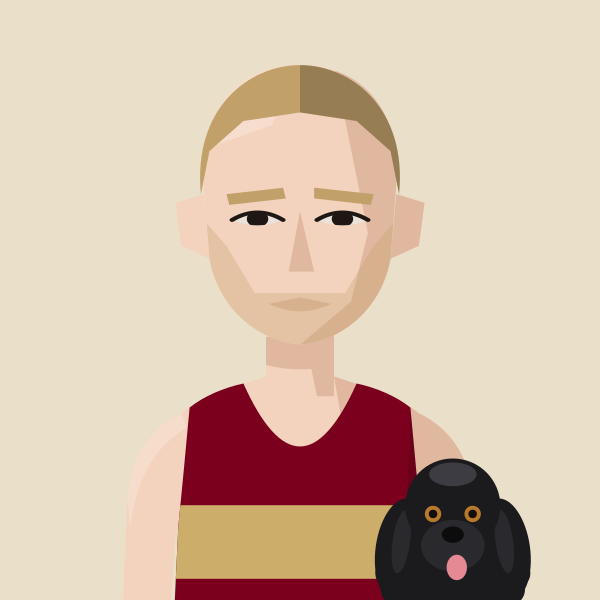
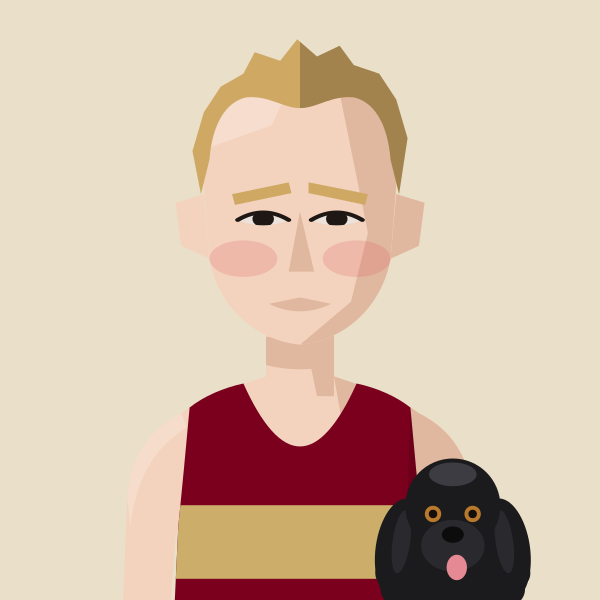
Redraw James Hancock: tufty receding blond hair, round jaw, closer eyes, warm brows (new brow-tilt option)
Claude-Session: https://claude.ai/code/session_01MgmDWhFqnSSnP4iBLKXUZC

Changed region(s): [[0.33, 0.3, 0.63, 0.57], [0.3, 0.06, 0.69, 0.3]]

diff --git a/files/index.html b/files/index.html
@@ -686,7 +686,7 @@ return m;})();
 const portraitFile=(name,club)=>{const k=normalizeNameForCompare(name||'').replace(/\s*\(([^)]*)\)$/,(m,c)=>CLUBS[c.toUpperCase()]?'':m);const a=PORTRAITS[k];if(a&&a.club===club)return a.file;const b=PORTRAITS[k+'@'+club];return b?b.file:null;};
 // Athlete header figure: superstar portrait if we have one, else a grey runner in the club vest, else the plain vest icon
 // Changes whenever any portrait changes (set by tools/build_og.py), so browsers fetch fresh images instead of old cached ones
-const PORTRAIT_V='f5fa012c';const PORTRAIT_WOMEN='abbey-brooke,abbie-bulbulian,adele-prince,aimee-hargreaves,aisling-ahern,alex-brown,alex-gandee,alex-marginean,alex-miller,alexa-parker,alexandra-barbour,alice-braham,alice-bridger-morales,alice-crane,alice-martin,alice-reed,alice-smith,alison-purnell,alison-thomson,amy-clements,andrea-barber,anika-schwarze-chintapatla,anna-garnier,anna-garnier-hw,anna-sharp,annabel-hobday,annabelle-hadlow,anne-hegvold,annmarie-seymour,ava-mcandie,becky-briggs,bethan-goddard,bethanie-murray,bethany-brown,betsy-griffiths,billie-mcclosky,camilla-barden,caoimhe-nic-fhogartaigh,carolyne-baxter,catherine-bryson,catherine-eastham,catherine-kandie,cathy-ansell,charlotte-griffiths,chloe-beckett,chloe-tighe,chrissie-wellington,claire-grima,clara-pettit,clare-elms,clare-pauzers,dillan-quinn,dorchie-cockerell,eilidh-hide,elinor-skinner,eliza-grant,elizabeth-apsley,elizabeth-stavreski,ella-fennelly,ella-king-powrie,ella-may-hards,ella-newton,ellie-brown,ellie-freeden,eloise-bull,emilie-arnoux,emily-barrett,emily-bradley,emily-lowery,emily-robbins,emma-gordon,emma-howsham,emma-lord,emma-rowland,estle-viljoen,evie-warren,felicity-cole,felicity-harrison,felicity-hayward,fi-maddocks,fiona-de-mauny,florence-wiggins,gabby-collison,gabriel-reynolds,gemma-newport,genevieve-blanch,georgia-curry,georgie-bruinvels,georgie-fenn,georgie-furze,georgie-grgec,gina-galbraith,grace-leyland,grace-richardson,hannah-edwards,hannah-english,heather-statham,heather-statham-cc,helena-corbin,helena-keenan,holly-nixon,holly-pan,imogen-mackie,imogen-wolsey,iona-cousland,isabel-bradley,isabel-brinsden,isabelle-pickett,isobel-hodder,jennifer-nandi,jennifer-smith,jess-reed,jess-saunders,jess-winfield,jessica-davies,jessica-lowe,jodie-favell,josephine-rhodes,julia-bleasdale,julia-wedmore,juliet-hodder,jurgita-levertaviciute,justine-lynch,karen-fenner,karen-xiang,karina-box,kate-axford,kate-williams,kathy-sharpe,katie-ellen-french,katie-good,katie-snowden,katy-hedgethorne,kitty-shepherd-cross,kristina-popadich,lara-bromilow,lara-mangan,laura-goodson,laura-miles,lauren-major,lea-adamson,lily-newton,lisa-bailey,lisa-thomas,lisa-thomas-hw,lizzie-goldie-scot,louise-cooper,lucy-jones,lucy-macalister,lucy-peters,lydia-blackmore,lydia-gallyer-barnett,maddie-mastrolonardo,maddy-whitman,maeve-kenny,margaret-coogan,martina-conner,mary-james,mary-setyabule,matilde-lomba,megan-gildea,mhairi-hall,mimi-corden-lloyd,molly-oconnor,molly-smith,monika-gajek,naomi-lenane,natalie-beadle,natalie-seymour,natasha-lodge,niamh-thompson,nicky-hayes,nicola-cartlidge,nicola-douglas,nikki-sturzaker,olivia-papaioannou,olivia-stillman,orna-mcginley,pamela-mchutchon,patricia-walker,patrizia-gnoato,penny-oliver,rachel-brown,rebecca-barrow,rebekah-edgar,ruby-carter,ruby-whyte-wilding,ruby-woolfe,sally-urquhart,sam-whiting,samantha-munday,sarah-astin,sarah-dewhirst,sarah-grover,sarah-hanley,sarah-holt,sarah-murphy,sarah-palmer,sarah-palmer-ran,sarah-riceman,sarah-young,saron-haileselase,serena-carter,sophie-cowper,sophie-harris,sophie-hicks,sophie-tooley,stacey-ward,steph-hewitt,steph-mccall,steph-mccall-cc,steph-mccall-slh,steph-mitchell,suzanne-swaine,suze-spalding,suzie-harvey,suzy-whatmough,teresa-murphy,tilly-heaton,tilly-heaton-bel,vic-cartwright,vicky-clarke,victoria-barthelmess,victoria-buck,vikki-filsell,zoe-macdonald,zuzana-nemeckova';const PORTRAIT_MEN='aaron-wilson,abdulla-elsadig,adam-leane,adrian-major,adrien-royer,alan-black,alan-mead,alex-brecker,alex-bruce-littlewood,alex-gutteridge,alex-harris,alex-howard,alex-janiaud,alex-lee,alex-lennon,alex-mills,alex-milne,alex-morales,alex-robinson,alex-yee,alexander-marks,amittai-ben-israel,andrew-cumine,andrew-green,andrew-penney,andrew-perfect,andrew-simms,andrew-warburton,andrius-jaksevicius,andy-coley-maud,andy-coley-maud-cc,andy-fyfe,andy-north,andy-paton,andy-weir,angus-butler,angus-lamb,anisse-ismaili,arlo-ludewick,arne-dumez,arthur-peel,ashley-goncalves,barnaby-day,barry-collins,barry-sawyer,ben-clarke,ben-harding,ben-hurley,ben-ireland,ben-millar,ben-paviour,ben-pearce,ben-racle,ben-revill,ben-reynolds,ben-scott,ben-toomer,benedict-whitby,benjamin-hilson,bernie-ford,bill-kerr,bill-weller,bill-weller-wal,bob-harrison,bob-holt,bob-lunnon,bob-rayman,bob-smith,bradley-courtney-pinn,brandon-dewar,brian-gorman,brian-wilder,caleb-hathaway,callum-stewart,cameron-dockerill,cameron-reilly,carl-delaney,charles-herrington,charlie-dabbs,charlie-dickinson,charlie-eastaugh,charlie-manning,charlie-pickett,charlie-rogers,charlie-sandison,charlie-walker,charlie-wyllie,che-compton,chris-busaileh,chris-busaileh-hhh,chris-greenwood,chris-keavey,chris-moss,chris-steer,chris-threadgold,chris-warren,christian-lee,christopher-parker,clive-gilby,clive-shippen,colin-high,colin-pearson,conall-mcnally,conall-whelan,craig-ruddy,dame-dibaba,dan-cliffe,dan-pettitt,daniel-shaw,daniel-wolff,dave-beard,dave-beaver,dave-glassborow,dave-holt,dave-taylor,david-anderson,david-bowers,david-grima,david-north,david-ogden,david-symons,david-walsh,david-williams,deron-fagan,dick-piotrowski,dimos-evangelidis,dominic-kiralyfi,don-anderson,don-faircloth,don-maclean,doug-maughan,duncan-rimmer,dylan-evans,dylan-mitchard,ed-brewer,ed-catmur,ed-gibson,ed-mallett,eddie-herridge,eddie-jodrell,eddie-rolls,edward-chuck,eoin-brady,eoin-molloy,ethan-mccolgan,falilou-kebe,findlay-dyer,finn-johnson,fintan-pearce,frank-tickner,frank-ward,fred-paget,fred-slemeck,freddie-hessian,garret-lee,gary-ribbons,gary-ribbons-ee,gary-staines,gavin-eccles,geoff-biscoe,geoff-jerwood,geoff-north,george-cotton,george-gathercole,george-jackson,george-loxton,george-mallett,george-ogden,gerry-adams,gerry-north,glen-keegan,gordon-pearce,graham-macky,harrison-hayman,harry-guttridge,hector-revill,henry-hart,henry-silverstein,hugo-hewitt,ian-acreman,ian-crowe-wright,ian-ellwood,ian-harkness,indy-barnes,isaac-lutaya,isaac-parker,jack-brotchie,jack-dickson,jack-dormer,jack-hampshire,jack-harrison,jack-hobden,jack-kavanagh,jack-millar,jack-ramm,jack-woods,jacob-brockmann,jake-simmonds,james-bartram,james-blackwood,james-bowler,james-estall,james-ewing,james-fox,james-hancock,james-harvey,james-hoad,james-kelly,james-mcmullan,james-murray,james-nutt,james-preston,james-roberts,james-stockings,james-ward,james-wootton,jamie-crowe,jamie-parkinson,jared-martin,jean-paul-wright,jeff-cunningham,jeremy-dempsey,jermaine-mays,jerry-watson,jim-allchin,jim-rimmer,joe-english,joe-hartley,john-baker,john-bicourt,john-bromley,john-davies,john-dear,john-foss,john-foxall,john-gilbert,john-gladwin,john-hutchins,john-kendall,john-kimaiyo,john-lee,john-lethbridge,john-mather,john-moore,john-roberts,john-sanderson,john-stow,john-sullivan,john-thresher,jon-hobbs,jon-pepper,jon-pepper-slh,jon-phillips,jon-solly,jonathan-cocker,jonathan-collier,jonathan-cornish,jonathan-ratcliffe,jonathan-tipper,jonathon-blackledge,jonny-neville,jonny-scott,jordan-weaver,josh-mitchell,josh-snow,josh-trigwell,jules-gevers,junior-galley,justin-chaston,justin-reid,kassa-tadesse,keith-newton,kevin-nash,kevin-quinn,kevin-sturman,kieran-barnes,kieran-white,knut-hegvold,knut-hegvold-bel,larry-ryan,lawrence-avery,lee-lintern,lewis-lloyd,liam-burthem,lionel-mann,lloyd-kempson,luke-caldwell,mack-downie,malachi-byansi,marcello-bizio,marcelo-fortes,marco-mazzotta,mark-anderson,mark-miles,mark-sinclair,mark-tennyson,mark-waller,martin-dent,martin-lake,martin-lewington,martin-shore,mathew-speed,matt-chaston,matt-jones,matt-wood,matthew-edgar,matthew-houchell,matthew-thomas,matthew-varley,max-bloor,max-heyden,max-milarvie,max-nicholls,michael-baker,michael-mccarthy,mick-woods,mike-beevor,mike-boyle,mike-cummings,mike-farmery,mike-fuller,mike-hayes,mike-kortenray,mike-nouch,mohammed-ismail,monty-hudson,morgan-roberts,nathan-visick,neil-chisholm,neil-phillips,neil-speaight,neil-wilson,nic-lukies,nick-acfield,nick-altmann,nick-bester,nick-bester-hhh,nick-buckle,nick-bundle,nick-goolab,nick-lightfoot,nick-morris,nick-torry,noah-fernandez,norman-stairs,oli-carrington,oliver-carrington,oliver-fox,oliver-reynolds,oliver-young,ollie-foote,ollie-garrod,olly-buck,owen-hind,paddy-roddy,pancho-panchev,paskar-owor,pat-newell,patrick-mcdougall,paul-calver,paul-cheetham,paul-freary,paul-magner,paul-pollock,pete-carton,pete-gardner,peter-clarke,peter-giles,peter-giles-thh,peter-lighting,phil-carstairs,phil-sanders,phil-sesemann,phil-swinburn,phil-wicks,phil-woodford-smith,raj-paranandi,ralph-street,ranjit-bhatia,ray-foley,reece-edwards,rhys-boorman,rian-mccawley,richard-ashe,richard-giles,richard-henderson,richard-langley,richard-mcdowell,richard-ollington,richard-partridge,richard-sun,richard-ward,rob-armstrong,rob-kelly,rob-tuer,robert-elphick,robert-laing,robert-norville,robert-peacock,robert-sesemann,robin-boon,robin-hudson,roger-alsop,roger-alsop-bel,ron-clark,ron-linstead,ronan-tanguy,rory-mcmahon,rory-orsborn,ross-christie,rowan-board,rowan-crichton,russell-dessaix-chin,ryan-hickey,ryan-mccallister,sam-bramwell,sam-charlton,sam-gebreselassie,sam-peters,sam-sommerville,sam-tyas,samuel-dames,samuel-wilcock,sean-cordon,sebastian-anthony,simon-baines,simon-coombes,simon-coppard,simon-holmes,simon-rayner,simon-rayner-hw,simon-wade,simon-wade-hhh,simon-waterhouse,simon-williams,simon-wurr,sonny-nicoll,spencer-barden,stephen-mcleod,stephen-sharp,steve-gardner,steve-jones,steve-smythe,steve-smythe-hhh,stuart-beaney,stuart-major,stuart-major-thh,stuart-mccallum,stuart-paton,terry-booth,thomas-dugre,thomas-gandee,thomas-gardner,thomas-renshaw,tim-alexander,tim-eglen,tim-lawrence,tim-watson,toby-cooke,toby-fletcher,tom-austin,tom-cheetham,tom-conlon,tom-davies,tom-gifford,tom-jervis,tom-lole,tom-south,tom-thornley,tommy-taylor,tony-binda,tony-fairclough,tony-harran,trevor-hart,valdis-pauzers,valentin-rigori,vic-maughan,will-cockerell,will-lewis,will-marshall,will-scott,will-stockley,william-gardner,yacin-yusuf,zach-nolan';
+const PORTRAIT_V='b5fc6f4c';const PORTRAIT_WOMEN='abbey-brooke,abbie-bulbulian,adele-prince,aimee-hargreaves,aisling-ahern,alex-brown,alex-gandee,alex-marginean,alex-miller,alexa-parker,alexandra-barbour,alice-braham,alice-bridger-morales,alice-crane,alice-martin,alice-reed,alice-smith,alison-purnell,alison-thomson,amy-clements,andrea-barber,anika-schwarze-chintapatla,anna-garnier,anna-garnier-hw,anna-sharp,annabel-hobday,annabelle-hadlow,anne-hegvold,annmarie-seymour,ava-mcandie,becky-briggs,bethan-goddard,bethanie-murray,bethany-brown,betsy-griffiths,billie-mcclosky,camilla-barden,caoimhe-nic-fhogartaigh,carolyne-baxter,catherine-bryson,catherine-eastham,catherine-kandie,cathy-ansell,charlotte-griffiths,chloe-beckett,chloe-tighe,chrissie-wellington,claire-grima,clara-pettit,clare-elms,clare-pauzers,dillan-quinn,dorchie-cockerell,eilidh-hide,elinor-skinner,eliza-grant,elizabeth-apsley,elizabeth-stavreski,ella-fennelly,ella-king-powrie,ella-may-hards,ella-newton,ellie-brown,ellie-freeden,eloise-bull,emilie-arnoux,emily-barrett,emily-bradley,emily-lowery,emily-robbins,emma-gordon,emma-howsham,emma-lord,emma-rowland,estle-viljoen,evie-warren,felicity-cole,felicity-harrison,felicity-hayward,fi-maddocks,fiona-de-mauny,florence-wiggins,gabby-collison,gabriel-reynolds,gemma-newport,genevieve-blanch,georgia-curry,georgie-bruinvels,georgie-fenn,georgie-furze,georgie-grgec,gina-galbraith,grace-leyland,grace-richardson,hannah-edwards,hannah-english,heather-statham,heather-statham-cc,helena-corbin,helena-keenan,holly-nixon,holly-pan,imogen-mackie,imogen-wolsey,iona-cousland,isabel-bradley,isabel-brinsden,isabelle-pickett,isobel-hodder,jennifer-nandi,jennifer-smith,jess-reed,jess-saunders,jess-winfield,jessica-davies,jessica-lowe,jodie-favell,josephine-rhodes,julia-bleasdale,julia-wedmore,juliet-hodder,jurgita-levertaviciute,justine-lynch,karen-fenner,karen-xiang,karina-box,kate-axford,kate-williams,kathy-sharpe,katie-ellen-french,katie-good,katie-snowden,katy-hedgethorne,kitty-shepherd-cross,kristina-popadich,lara-bromilow,lara-mangan,laura-goodson,laura-miles,lauren-major,lea-adamson,lily-newton,lisa-bailey,lisa-thomas,lisa-thomas-hw,lizzie-goldie-scot,louise-cooper,lucy-jones,lucy-macalister,lucy-peters,lydia-blackmore,lydia-gallyer-barnett,maddie-mastrolonardo,maddy-whitman,maeve-kenny,margaret-coogan,martina-conner,mary-james,mary-setyabule,matilde-lomba,megan-gildea,mhairi-hall,mimi-corden-lloyd,molly-oconnor,molly-smith,monika-gajek,naomi-lenane,natalie-beadle,natalie-seymour,natasha-lodge,niamh-thompson,nicky-hayes,nicola-cartlidge,nicola-douglas,nikki-sturzaker,olivia-papaioannou,olivia-stillman,orna-mcginley,pamela-mchutchon,patricia-walker,patrizia-gnoato,penny-oliver,rachel-brown,rebecca-barrow,rebekah-edgar,ruby-carter,ruby-whyte-wilding,ruby-woolfe,sally-urquhart,sam-whiting,samantha-munday,sarah-astin,sarah-dewhirst,sarah-grover,sarah-hanley,sarah-holt,sarah-murphy,sarah-palmer,sarah-palmer-ran,sarah-riceman,sarah-young,saron-haileselase,serena-carter,sophie-cowper,sophie-harris,sophie-hicks,sophie-tooley,stacey-ward,steph-hewitt,steph-mccall,steph-mccall-cc,steph-mccall-slh,steph-mitchell,suzanne-swaine,suze-spalding,suzie-harvey,suzy-whatmough,teresa-murphy,tilly-heaton,tilly-heaton-bel,vic-cartwright,vicky-clarke,victoria-barthelmess,victoria-buck,vikki-filsell,zoe-macdonald,zuzana-nemeckova';const PORTRAIT_MEN='aaron-wilson,abdulla-elsadig,adam-leane,adrian-major,adrien-royer,alan-black,alan-mead,alex-brecker,alex-bruce-littlewood,alex-gutteridge,alex-harris,alex-howard,alex-janiaud,alex-lee,alex-lennon,alex-mills,alex-milne,alex-morales,alex-robinson,alex-yee,alexander-marks,amittai-ben-israel,andrew-cumine,andrew-green,andrew-penney,andrew-perfect,andrew-simms,andrew-warburton,andrius-jaksevicius,andy-coley-maud,andy-coley-maud-cc,andy-fyfe,andy-north,andy-paton,andy-weir,angus-butler,angus-lamb,anisse-ismaili,arlo-ludewick,arne-dumez,arthur-peel,ashley-goncalves,barnaby-day,barry-collins,barry-sawyer,ben-clarke,ben-harding,ben-hurley,ben-ireland,ben-millar,ben-paviour,ben-pearce,ben-racle,ben-revill,ben-reynolds,ben-scott,ben-toomer,benedict-whitby,benjamin-hilson,bernie-ford,bill-kerr,bill-weller,bill-weller-wal,bob-harrison,bob-holt,bob-lunnon,bob-rayman,bob-smith,bradley-courtney-pinn,brandon-dewar,brian-gorman,brian-wilder,caleb-hathaway,callum-stewart,cameron-dockerill,cameron-reilly,carl-delaney,charles-herrington,charlie-dabbs,charlie-dickinson,charlie-eastaugh,charlie-manning,charlie-pickett,charlie-rogers,charlie-sandison,charlie-walker,charlie-wyllie,che-compton,chris-busaileh,chris-busaileh-hhh,chris-greenwood,chris-keavey,chris-moss,chris-steer,chris-threadgold,chris-warren,christian-lee,christopher-parker,clive-gilby,clive-shippen,colin-high,colin-pearson,conall-mcnally,conall-whelan,craig-ruddy,dame-dibaba,dan-cliffe,dan-pettitt,daniel-shaw,daniel-wolff,dave-beard,dave-beaver,dave-glassborow,dave-holt,dave-taylor,david-anderson,david-bowers,david-grima,david-north,david-ogden,david-symons,david-walsh,david-williams,deron-fagan,dick-piotrowski,dimos-evangelidis,dominic-kiralyfi,don-anderson,don-faircloth,don-maclean,doug-maughan,duncan-rimmer,dylan-evans,dylan-mitchard,ed-brewer,ed-catmur,ed-gibson,ed-mallett,eddie-herridge,eddie-jodrell,eddie-rolls,edward-chuck,eoin-brady,eoin-molloy,ethan-mccolgan,falilou-kebe,findlay-dyer,finn-johnson,fintan-pearce,frank-tickner,frank-ward,fred-paget,fred-slemeck,freddie-hessian,garret-lee,gary-ribbons,gary-ribbons-ee,gary-staines,gavin-eccles,geoff-biscoe,geoff-jerwood,geoff-north,george-cotton,george-gathercole,george-jackson,george-loxton,george-mallett,george-ogden,gerry-adams,gerry-north,glen-keegan,gordon-pearce,graham-macky,harrison-hayman,harry-guttridge,hector-revill,henry-hart,henry-silverstein,hugo-hewitt,ian-acreman,ian-crowe-wright,ian-ellwood,ian-harkness,indy-barnes,isaac-lutaya,isaac-parker,jack-brotchie,jack-dickson,jack-dormer,jack-hampshire,jack-harrison,jack-hobden,jack-kavanagh,jack-millar,jack-ramm,jack-woods,jacob-brockmann,jake-simmonds,james-bartram,james-blackwood,james-bowler,james-estall,james-ewing,james-fox,james-hancock,james-harvey,james-hoad,james-kelly,james-mcmullan,james-murray,james-nutt,james-preston,james-roberts,james-stockings,james-ward,james-wootton,jamie-crowe,jamie-parkinson,jared-martin,jean-paul-wright,jeff-cunningham,jeremy-dempsey,jermaine-mays,jerry-watson,jim-allchin,jim-rimmer,joe-english,joe-hartley,john-baker,john-bicourt,john-bromley,john-davies,john-dear,john-foss,john-foxall,john-gilbert,john-gladwin,john-hutchins,john-kendall,john-kimaiyo,john-lee,john-lethbridge,john-mather,john-moore,john-roberts,john-sanderson,john-stow,john-sullivan,john-thresher,jon-hobbs,jon-pepper,jon-pepper-slh,jon-phillips,jon-solly,jonathan-cocker,jonathan-collier,jonathan-cornish,jonathan-ratcliffe,jonathan-tipper,jonathon-blackledge,jonny-neville,jonny-scott,jordan-weaver,josh-mitchell,josh-snow,josh-trigwell,jules-gevers,junior-galley,justin-chaston,justin-reid,kassa-tadesse,keith-newton,kevin-nash,kevin-quinn,kevin-sturman,kieran-barnes,kieran-white,knut-hegvold,knut-hegvold-bel,larry-ryan,lawrence-avery,lee-lintern,lewis-lloyd,liam-burthem,lionel-mann,lloyd-kempson,luke-caldwell,mack-downie,malachi-byansi,marcello-bizio,marcelo-fortes,marco-mazzotta,mark-anderson,mark-miles,mark-sinclair,mark-tennyson,mark-waller,martin-dent,martin-lake,martin-lewington,martin-shore,mathew-speed,matt-chaston,matt-jones,matt-wood,matthew-edgar,matthew-houchell,matthew-thomas,matthew-varley,max-bloor,max-heyden,max-milarvie,max-nicholls,michael-baker,michael-mccarthy,mick-woods,mike-beevor,mike-boyle,mike-cummings,mike-farmery,mike-fuller,mike-hayes,mike-kortenray,mike-nouch,mohammed-ismail,monty-hudson,morgan-roberts,nathan-visick,neil-chisholm,neil-phillips,neil-speaight,neil-wilson,nic-lukies,nick-acfield,nick-altmann,nick-bester,nick-bester-hhh,nick-buckle,nick-bundle,nick-goolab,nick-lightfoot,nick-morris,nick-torry,noah-fernandez,norman-stairs,oli-carrington,oliver-carrington,oliver-fox,oliver-reynolds,oliver-young,ollie-foote,ollie-garrod,olly-buck,owen-hind,paddy-roddy,pancho-panchev,paskar-owor,pat-newell,patrick-mcdougall,paul-calver,paul-cheetham,paul-freary,paul-magner,paul-pollock,pete-carton,pete-gardner,peter-clarke,peter-giles,peter-giles-thh,peter-lighting,phil-carstairs,phil-sanders,phil-sesemann,phil-swinburn,phil-wicks,phil-woodford-smith,raj-paranandi,ralph-street,ranjit-bhatia,ray-foley,reece-edwards,rhys-boorman,rian-mccawley,richard-ashe,richard-giles,richard-henderson,richard-langley,richard-mcdowell,richard-ollington,richard-partridge,richard-sun,richard-ward,rob-armstrong,rob-kelly,rob-tuer,robert-elphick,robert-laing,robert-norville,robert-peacock,robert-sesemann,robin-boon,robin-hudson,roger-alsop,roger-alsop-bel,ron-clark,ron-linstead,ronan-tanguy,rory-mcmahon,rory-orsborn,ross-christie,rowan-board,rowan-crichton,russell-dessaix-chin,ryan-hickey,ryan-mccallister,sam-bramwell,sam-charlton,sam-gebreselassie,sam-peters,sam-sommerville,sam-tyas,samuel-dames,samuel-wilcock,sean-cordon,sebastian-anthony,simon-baines,simon-coombes,simon-coppard,simon-holmes,simon-rayner,simon-rayner-hw,simon-wade,simon-wade-hhh,simon-waterhouse,simon-williams,simon-wurr,sonny-nicoll,spencer-barden,stephen-mcleod,stephen-sharp,steve-gardner,steve-jones,steve-smythe,steve-smythe-hhh,stuart-beaney,stuart-major,stuart-major-thh,stuart-mccallum,stuart-paton,terry-booth,thomas-dugre,thomas-gandee,thomas-gardner,thomas-renshaw,tim-alexander,tim-eglen,tim-lawrence,tim-watson,toby-cooke,toby-fletcher,tom-austin,tom-cheetham,tom-conlon,tom-davies,tom-gifford,tom-jervis,tom-lole,tom-south,tom-thornley,tommy-taylor,tony-binda,tony-fairclough,tony-harran,trevor-hart,valdis-pauzers,valentin-rigori,vic-maughan,will-cockerell,will-lewis,will-marshall,will-scott,will-stockley,william-gardner,yacin-yusuf,zach-nolan';
 // Runners whose dog pops up on their own profile page (a -dog.svg version of their portrait)
 const PROFILE_DOGS=new Set(['john-sanderson','penny-oliver','james-hancock']);
 const AthletePortrait=({name,club,w,fill,onClick,blink})=>{const[failed,setFailed]=useState(false);const file=portraitFile(name,club);const src0=file?`/portraits/athletes/${file}.svg?v=${PORTRAIT_V}`:PORTRAIT_CLUBS.has(club)?`/portraits/clubs/${club.replace(/\//g,'').replace(/&/g,'and')}.svg?v=${PORTRAIT_V}`:null;const blinkSrc=useBlinkSrc(file?(PROFILE_DOGS.has(file)?`/portraits/athletes/${file}-dog.svg?v=${PORTRAIT_V}`:src0):null,!!blink);const src=blinkSrc||src0;if(!src||failed)return<div onClick={onClick} className={onClick?'cursor-pointer':''}><ClubShield club={club} size={w}/></div>;const h=Math.round(w*148/126),ih=Math.round(w*1.4);if(fill)return<div onClick={onClick} className="cursor-pointer" style={{alignSelf:'stretch',minHeight:h,aspectRatio:'126 / 148',flexShrink:0,position:'relative',borderRadius:4,overflow:'hidden'}}><img src={src} alt={file?`Portrait of ${name.replace(/\s*\([^)]*\)$/,'')}`:`Runner in ${CLUBS[club]?.name||club} vest`} style={{position:'absolute',top:0,left:0,display:'block',width:'100%',height:'auto'}} onError={()=>setFailed(true)}/></div>;return<div style={{width:w,height:h,borderRadius:4,overflow:'hidden',flexShrink:0}}><img src={src} alt={file?`Portrait of ${name.replace(/\s*\([^)]*\)$/,'')}`:`Runner in ${CLUBS[club]?.name||club} vest`} width={w} height={ih} style={{display:'block',width:w,height:ih}} onError={()=>setFailed(true)}/></div>;};

diff --git a/tools/gen_portraits.py b/tools/gen_portraits.py
@@ -683,7 +683,7 @@ W439b = [
  ("lee-lintern","G&G","Lee Lintern",dict(skin=1,hair="crop",hair_colour="#4A3426",facial="beard"),"short brown hair, beard"),
  ("ian-acreman","G&G","Ian Acreman",dict(skin=1,hair="crop",hair_colour="grey"),"short grey hair"),
  ("alex-howard","THH","Alex Howard",dict(skin=1,hair="quiffrecede",hair_colour="#4E3626",gaunt=True),"short swept-back brown hair, receding at the temples"),
- ("james-hancock","BEL","James Hancock",dict(skin=1,hair="crop",hair_colour="#C2A06A",facial="stubble"),"short blond hair, stubble"),
+ ("james-hancock","BEL","James Hancock",dict(skin=1,hair="tuftrecede",hair_colour="#CFA864",rosy=True),"tufty blond hair, slight recede"),  # face finished below (eyes closer, warm brows)
  ("nick-morris","BEL","Nick Morris",dict(skin=1,hair="quiff",hair_colour="#2A1D18"),"short dark hair"),
  ("richard-sun","H/W","Richard Sun",dict(skin=2,hair="crop",hair_colour="#1C1714",shades=True),"short black hair, sunglasses"),
  ("jonathan-cocker","G&G","Jonathan Cocker",dict(skin=1,hair="crop",hair_colour="#6B4A2E",facial="moustache"),"short brown hair, moustache"),
@@ -1529,6 +1529,26 @@ def export_site(site_dir="/home/claude/surrey-league/files/portraits/athletes", 
         src = f"v4/{SITE_NAMES.get(slug, slug)}.svg"
         if os.path.exists(src):
             shutil.copy(src, f"{out}/{slug}.svg")
+# ---- Brow tilt (Oct 2026): lift the inner ends for a warm, open look; follow eye spacing ----
+import re as _re_b
+def brows(svg, lift=0, spacing=0):
+    """lift > 0 raises the inner ends of both brows (warm/upturned); spacing matches eyes() (- = closer)."""
+    m = _re_b.search(r'<g fill="(#[0-9A-Fa-f]{3,6})"><polygon points="([^"]+)"/><polygon points="([^"]+)"/></g>', svg)
+    if not m: return svg
+    def pts(s): return [tuple(float(v) for v in p.split(",")) for p in s.split()]
+    def fmt(ps): return " ".join(f"{x:g},{y:g}" for x, y in ps)
+    L, R = pts(m.group(2)), pts(m.group(3))
+    lx = max(x for x, _ in L); rx = min(x for x, _ in R)
+    L = [(x - spacing, y - (lift if x >= lx - 2 else 0)) for x, y in L]
+    R = [(x + spacing, y - (lift if x <= rx + 2 else 0)) for x, y in R]
+    new = f'<g fill="{m.group(1)}"><polygon points="{fmt(L)}"/><polygon points="{fmt(R)}"/></g>'
+    return svg[:m.start()] + new + svg[m.end():]
+
+# James Hancock, redrawn Oct 2026: tufty receding blond hair, round jaw, eyes set closer, warm upturned brows
+_HANCOCK_KW = next(t[3] for v in list(globals().values()) if isinstance(v, list) and v and isinstance(v[0], tuple) and len(v[0]) == 5 for t in v if t[0] == "james-hancock")
+HANCOCK_FACE = lambda svg: brows(eyes(svg, None, -2), 2.5, -2)
+save("james-hancock", HANCOCK_FACE(figure("BEL", **_HANCOCK_KW)))
+
 # John Sanderson, redrawn Oct 2026: hooded eyes, square jaw, light stubble, current dark quiff
 save("sanderson", eyes(figure("G&G", skin=1, hair="quiff", hair_colour="dark brown", facial="stubble", facial_colour="#8A6A50", jaw="square"), "hooded"))
 # profile-page-only version: his dog sits inside the athlete-page crop; the site animates it popping up at the end of the blink loop
@@ -1544,7 +1564,9 @@ def _batch_kw(slug):
                 if t[0] == slug: return t[1], t[3]
 for _slug in ("penny-oliver", "james-hancock"):
     _club, _kw = _batch_kw(_slug)
-    save(f"{_slug}-dog", with_spaniel(figure(_club, **_kw), cx=154, cy=203, s=1.4))
+    _fig = figure(_club, **_kw)
+    if _slug == "james-hancock": _fig = HANCOCK_FACE(_fig)
+    save(f"{_slug}-dog", with_spaniel(_fig, cx=154, cy=203, s=1.4))
 SITE_NAMES["penny-oliver-dog"] = "penny-oliver-dog"
 SITE_NAMES["james-hancock-dog"] = "james-hancock-dog"
 export_site()
